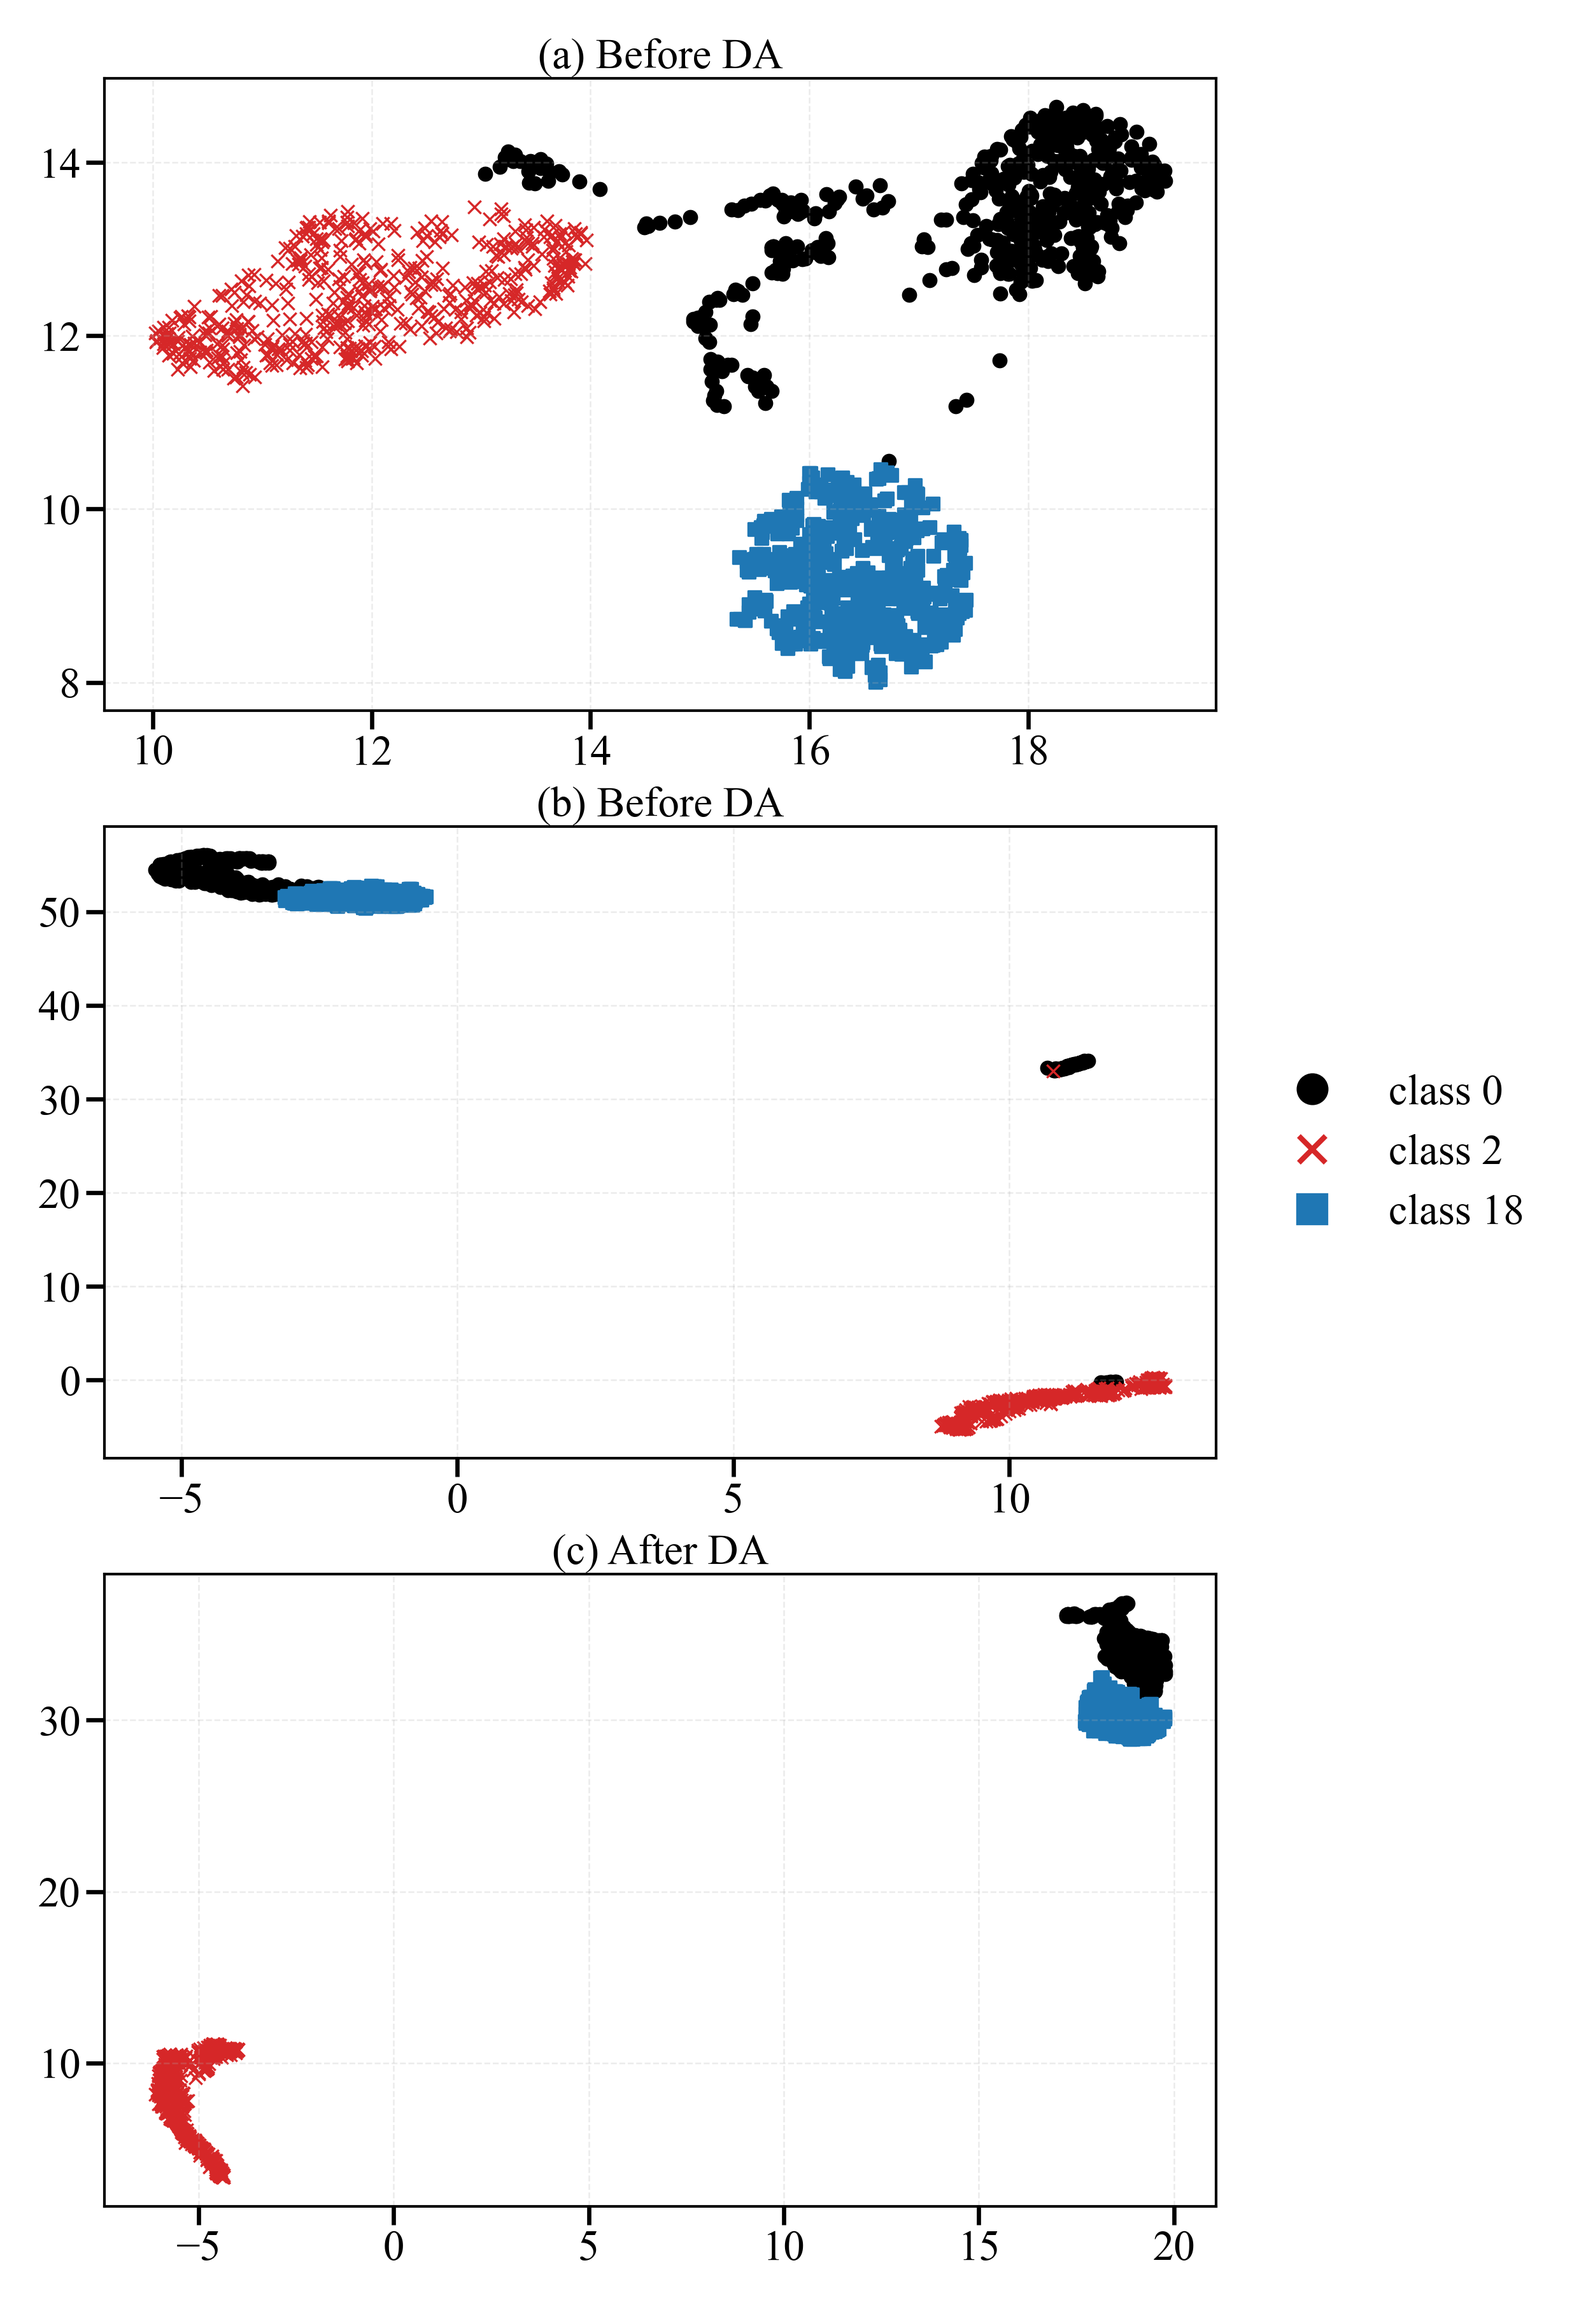
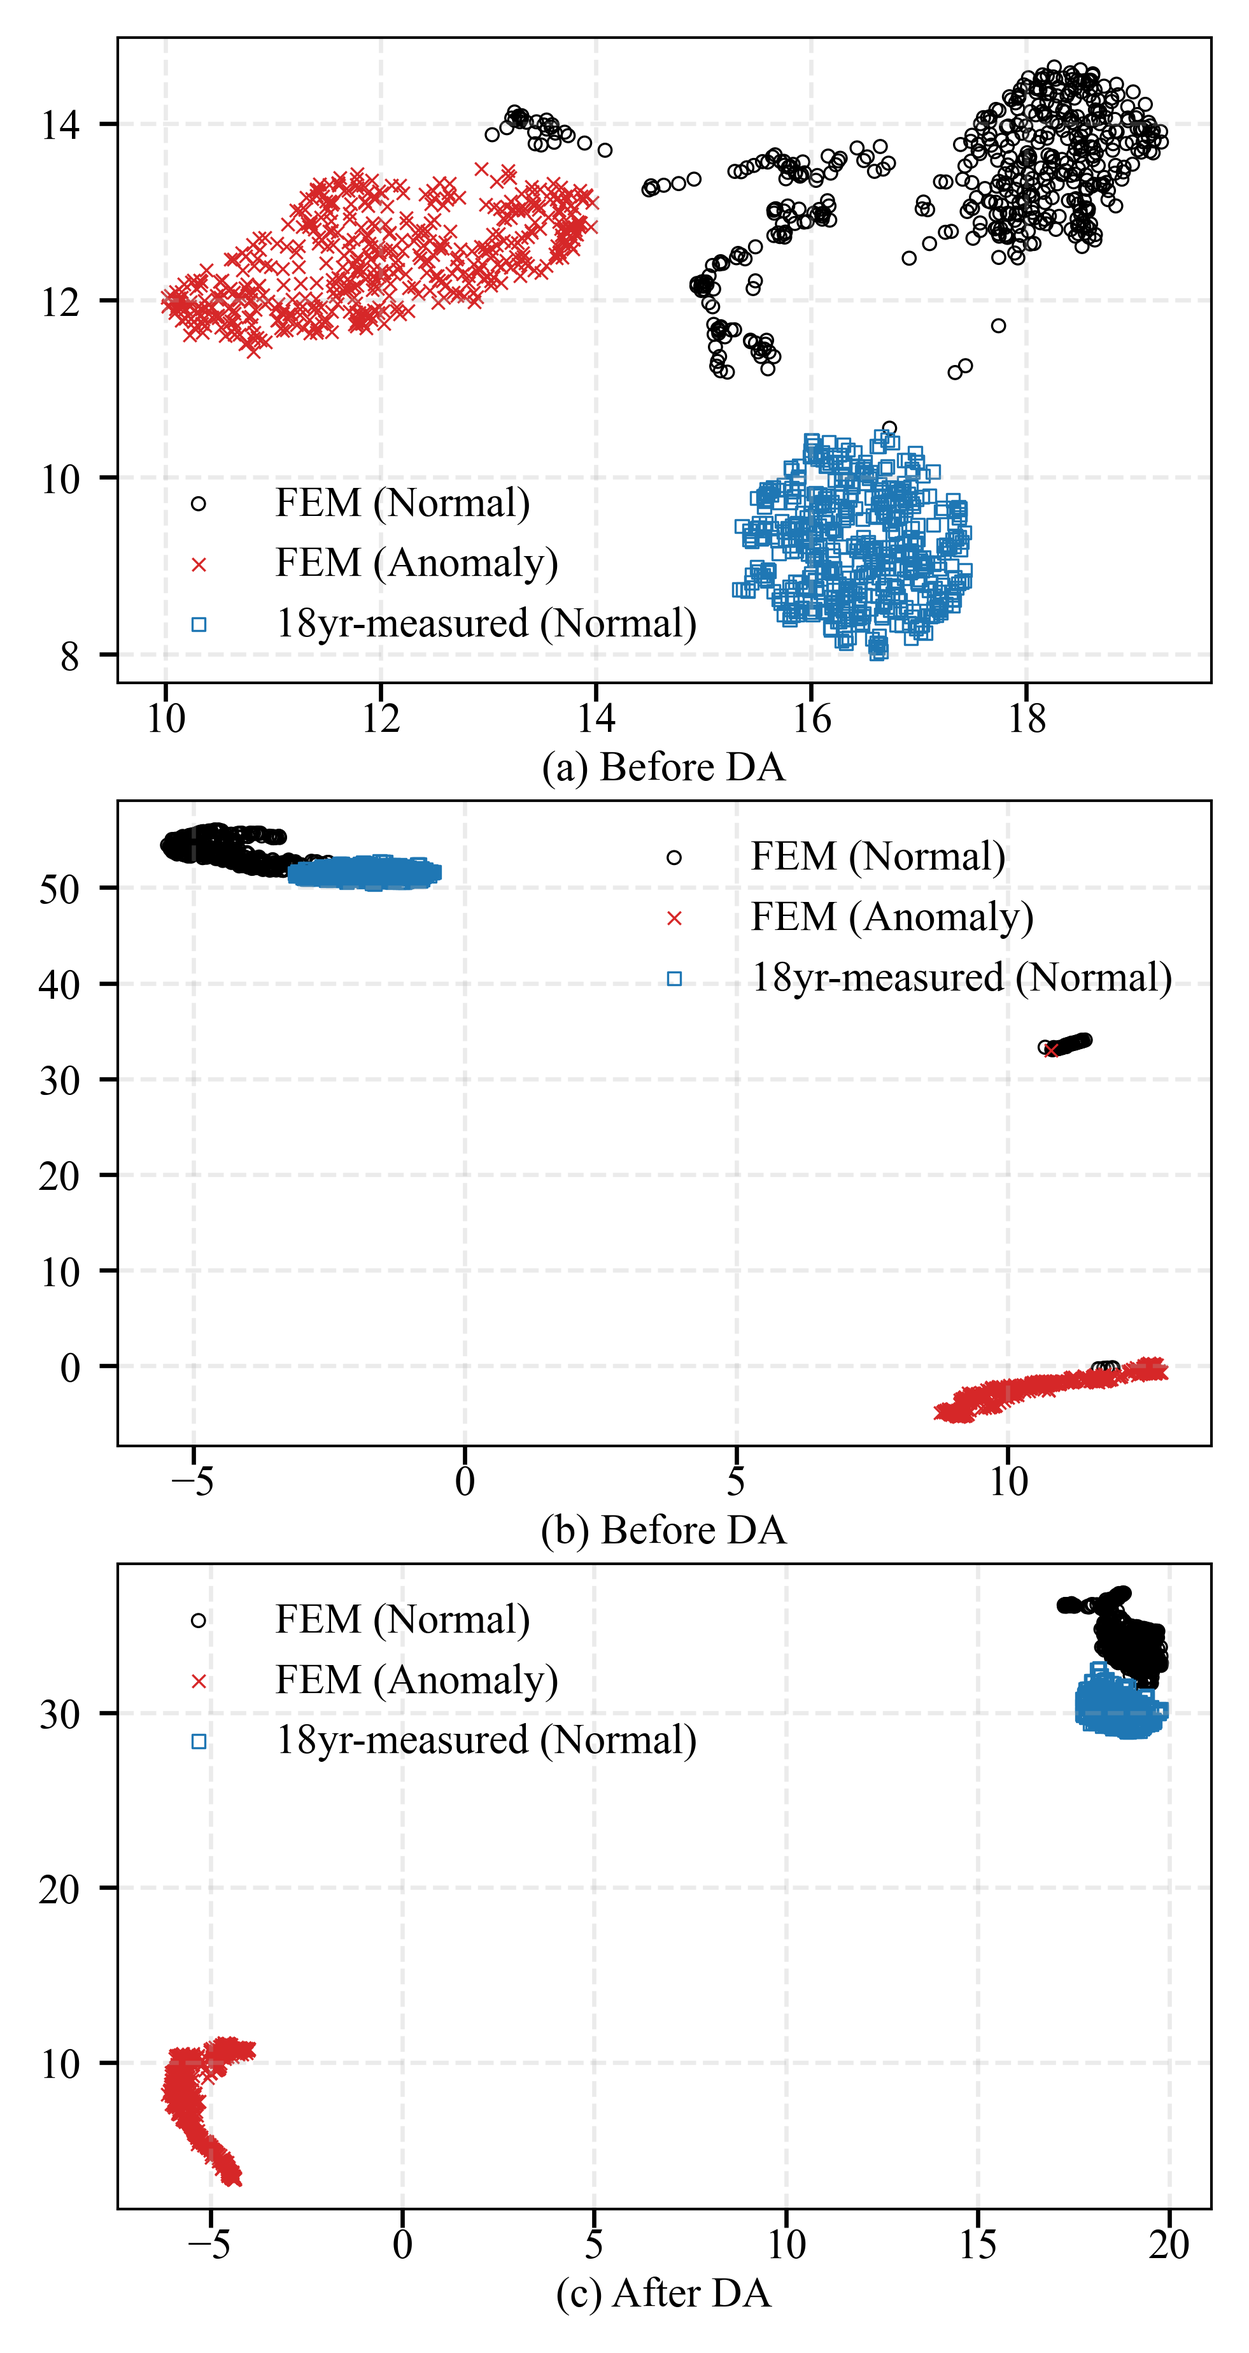
HOME

diff --git a/results/umap/csv/anomaly_score_check.py b/results/umap/csv/anomaly_score_check.py
@@ -1,0 +1,119 @@
+# results/umap/csv/anomaly_score_check.py
+
+import os
+import sys
+
+import numpy as np
+import pandas as pd
+from sklearn.metrics import accuracy_score, precision_score, recall_score, f1_score, roc_auc_score
+
+
+df = pd.read_csv("./results/umap/csv/v3.0_resnet_ae/umap_s2(18)_encoder_epoch5.csv")
+
+df = df.rename(columns={
+    df.columns[0]: "x1",
+    df.columns[1]: "x2",
+    df.columns[2]: "class_label",
+    df.columns[3]: "anomaly_label"
+})
+
+# 0-2. 숫자형 변환 (문자 섞여도 NaN 처리)
+num_cols = ["x1", "x2"]
+df[num_cols] = df[num_cols].apply(pd.to_numeric, errors="coerce")
+df[["class_label", "anomaly_label"]] = df[["class_label", "anomaly_label"]].apply(pd.to_numeric, errors="coerce")
+
+# 0-3. 필수 열에 NaN 이 남은 행은 제거
+df = df.dropna(subset=num_cols + ["class_label", "anomaly_label"])
+
+# 1. class label 0, 18인 정상 데이터 중심(center) 계산
+normal_mask = df["class_label"].isin([0, 18])
+center = df.loc[normal_mask, ["x1", "x2"]].mean().values  # shape = (2,)
+print(f"Center (x̄, ȳ) = {center}")
+
+# 2. 모든 데이터에 대해 center와의 유클리드 거리 계산
+df["distance"] = np.linalg.norm(df[["x1", "x2"]].values - center, axis=1)
+
+# -------------------------------------------------------
+# 3. distance를 바탕으로 class label 0 vs 2 성능 지표 산출
+#    * 기준(threshold)은 '정상(training) 거리의 95‑퍼센타일'
+#    * 필요 시 퍼센타일 값이나 방법을 조정해도 무방
+# -------------------------------------------------------
+# 3‑1) 평가 대상 행만 추출 (label 0 과 2)
+eval_mask = df["class_label"].isin([0, 2])
+eval_df = df.loc[eval_mask].copy()
+
+# 3‑2) 임계값(threshold) 설정
+threshold = np.percentile(df.loc[normal_mask, "distance"], 95)
+print(f"Distance threshold (95th pct of normals) = {threshold:.4f}")
+
+# 3‑3) 예측 레이블 생성: 거리 > threshold → anomaly(1), else normal(0)
+eval_df["pred_label"] = (eval_df["distance"] > threshold).astype(int)
+
+# 3‑4) 성능 지표 계산
+y_true = eval_df["anomaly_label"]
+y_pred = eval_df["pred_label"]
+y_score = eval_df["distance"]      # AUC 계산용 연속 점수
+
+metrics = {
+    "Accuracy" : accuracy_score(y_true, y_pred),
+    "Precision": precision_score(y_true, y_pred, zero_division=0),
+    "Recall"   : recall_score(y_true, y_pred, zero_division=0),
+    "F1-score" : f1_score(y_true, y_pred, zero_division=0),
+    "AUC"      : roc_auc_score(y_true, y_score)
+}
+
+print("\n=== Evaluation (class 0 vs 2) ===")
+for k, v in metrics.items():
+    print(f"{k:9s}: {v:.4f}")
+
+"""
+num_cols = ["x1", "x2"]
+df[num_cols] = df[num_cols].apply(pd.to_numeric, errors="coerce")
+df[["class_label", "anomaly_label"]] = df[["class_label", "anomaly_label"]].apply(pd.to_numeric, errors="coerce")
+df = df.dropna(subset=num_cols + ["class_label", "anomaly_label"])
+
+# 1. 정상(class 0, 18) 중심(center) 계산
+normal_mask = df["class_label"].isin([0, 18])
+center = df.loc[normal_mask, ["x1", "x2"]].mean().values  # shape = (2,)
+print(f"Center (x̄, ȳ) = {center}")
+
+# 모든 데이터에 대해 Euclidean distance 계산
+df["distance"] = np.linalg.norm(df[["x1", "x2"]].values - center, axis=1)
+
+# 2. class label 0 vs 2 평가용 서브셋 추출
+eval_mask = df["class_label"].isin([0, 2])
+eval_df = df.loc[eval_mask].copy()
+
+y_true  = eval_df["anomaly_label"].values
+y_score = eval_df["distance"].values
+
+# 3. ROC 곡선 기반 최적 임계값 (Youden J = TPR - FPR) 계산
+fpr, tpr, roc_thresholds = roc_curve(y_true, y_score, pos_label=1)
+j_scores       = tpr - fpr
+best_idx       = np.argmax(j_scores)
+best_threshold = roc_thresholds[best_idx]
+
+print(f"ROC-AUC                     : {roc_auc_score(y_true, y_score):.4f}")
+print(f"Best threshold (Youden J)   : {best_threshold:.6f}")
+print(f"TPR@best_thr, FPR@best_thr  : {tpr[best_idx]:.4f}, {fpr[best_idx]:.4f}")
+
+# 4. 최적 임계값으로 예측 & 지표 산출
+y_pred = (y_score > best_threshold).astype(int)
+
+metrics = {
+    "Accuracy" : accuracy_score(y_true, y_pred),
+    "Precision": precision_score(y_true, y_pred, zero_division=0),
+    "Recall"   : recall_score(y_true, y_pred, zero_division=0),
+    "F1-score" : f1_score(y_true, y_pred, zero_division=0),
+    "AUC"      : roc_auc_score(y_true, y_score),
+    "Threshold": best_threshold
+}
+
+print("\n=== Evaluation (class 0 vs 2) ===")
+for k, v in metrics.items():
+    # Threshold는 그대로, 나머지는 소수점 4째 자리까지 표시
+    if k == "Threshold":
+        print(f"{k:9s}: {v}")
+    else:
+        print(f"{k:9s}: {v:.4f}")
+"""

diff --git a/results/result_umap.py b/results/result_umap.py
@@ -5,7 +5,7 @@ import pandas as pd
 import matplotlib.pyplot as plt
 
 
-WIDTH_MM = 80
+WIDTH_MM = 78
 HEIGHT_MM = 150
 WIDTH_IN = WIDTH_MM / 25.4
 HEIGHT_IN = HEIGHT_MM / 25.4
@@ -57,7 +57,7 @@ def plot_umap(csv_dir, save_dir):
 
     # subplot
     n_plots = len(MAP_CONFIGS)
-    fig, axes = plt.subplots(n_plots, 1, sharex=False, sharey=False)
+    fig, axes = plt.subplots(n_plots, 1, figsize=plt.rcParams["figure.figsize"])
 
     for idx, (fname, title) in enumerate(MAP_CONFIGS.values()):
         ax = axes[idx]
@@ -68,27 +68,28 @@ def plot_umap(csv_dir, save_dir):
         df = _read_umap_csv(csv_path)
         class_ids = sorted(df.iloc[:, 2].unique())  # e.g. [0, 2, 18]
 
-        for cid in enumerate(class_ids):
+        for cid in class_ids:
             color, marker = COLOR_MAP[cid], MARKER_MAP[cid]
             sub           = df[df.iloc[:, 2] == cid]
 
-        # legend
-        legend = LEGEND_MAP.get(cid, f'class {cid}')
+            # legend
+            legend = LEGEND_MAP.get(cid, f'class {cid}')
 
-        # subplot scatter
-        ax.scatter(
-                sub.iloc[:, 0], sub.iloc[:, 1], marker=marker, 
-                facecolors='none' if marker in ['o','s'] else color,
-                edgecolors=color, linewidths=0.4, s=6
-            )
+            # subplot scatter
+            ax.scatter(
+                    sub.iloc[:, 0], sub.iloc[:, 1], marker=marker, 
+                    facecolors='none' if marker in ['o','s'] else color,
+                    edgecolors=color, linewidths=0.4, s=6, label=legend
+                )
         
         # subplot layour
+        ax.legend(frameon=False)
         ax.grid(True, which='both', linestyle='--')
         ax.tick_params(axis='x', pad=0)
         ax.set_title(title, loc='center', pad=0, y=-0.15)
     
     # plot setting
-    fig.tight_layout(pad=0.3)
+    fig.tight_layout(pad=0.0, h_pad=0.75)
     fig.savefig(save_path, bbox_inches="tight")
     plt.close(fig)
     print(f"Figure saved: {os.path.relpath(save_path)}")
